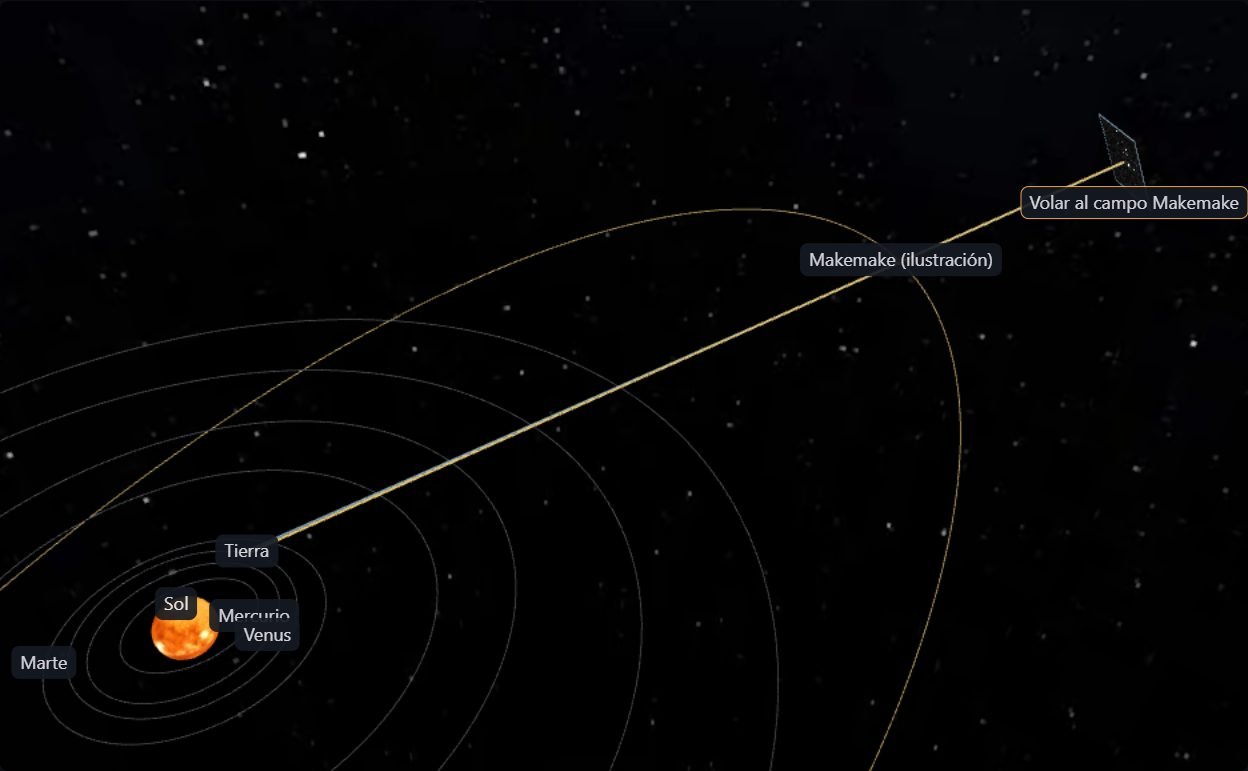
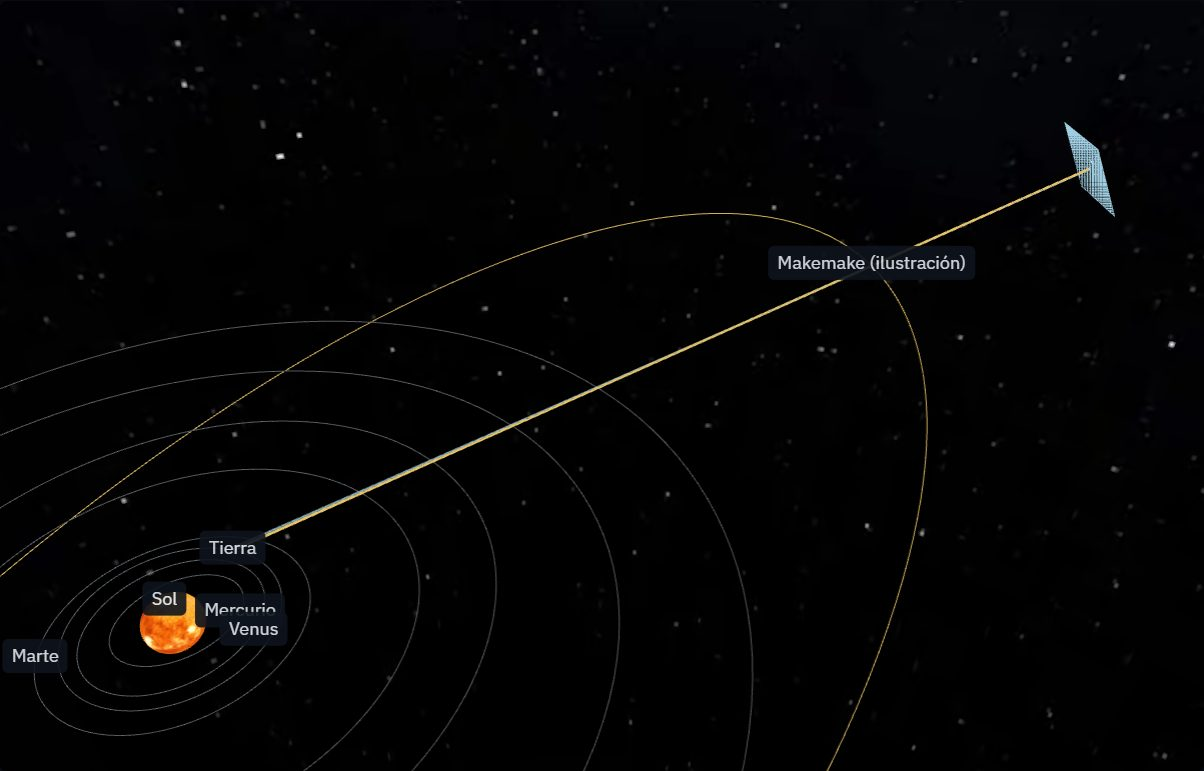
RNF-13: Recaptura la imagen fija sin el rótulo del campo
En la captura que se ve sin WebGL aparecía «Volar al campo Makemake»,
que en la imagen no es un botón e invitaba a apretar algo que no
responde. El script lo oculta antes de capturar; la nueva toma sale
con la paleta y la tipografía del visor.

diff --git a/web/src/componentes/espacio/ImagenFijaDeLaEscena.tsx b/web/src/componentes/espacio/ImagenFijaDeLaEscena.tsx
@@ -16,7 +16,7 @@ export default function ImagenFijaDeLaEscena({
     <figure className="escena__fija">
       <img
         src={`${prefijo}escena/escena-fija.jpg`}
-        width={1248}
+        width={1204}
         height={771}
         alt="Captura de la escena del campo de Makemake: el Sol, las órbitas de los planetas y la órbita inclinada de Makemake, con la línea de visión desde la Tierra hacia el campo."
       />
